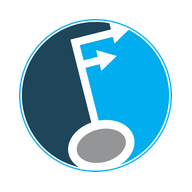
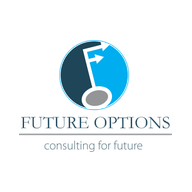
checkpoint before testing_agent_full_stack_o55
Emergent-Commit-Key: 36f8d85649187cc7768c8cea1240ff45d5296a32c699ba65fd40321ee2fd6c4a

diff --git a/frontend/src/components/Layout.js b/frontend/src/components/Layout.js
@@ -12,13 +12,13 @@ const NAV = [
 
 function Brand() {
   return (
-    <Link to="/" className="flex flex-col leading-tight" data-testid="brand-link">
-      <span className="font-display text-xl font-bold text-[var(--green)]">
-        Learning AI <span className="text-[var(--orange)]">Africa</span>
-      </span>
-      <span className="flex items-center gap-1.5 text-[11px] text-[var(--muted)]">
-        <img src="/future-options-mark.png" alt="Future Options logo" width="18" height="18" className="h-[18px] w-[18px]" data-testid="header-fo-logo" />
-        A Future Options learning initiative
+    <Link to="/" className="flex items-center gap-3" data-testid="brand-link">
+      <img src="/future-options-logo.png" alt="Future Options – consulting for future" width="66" height="48" className="h-12 w-auto shrink-0" data-testid="header-fo-logo" />
+      <span className="flex flex-col leading-tight">
+        <span className="font-display text-xl font-bold text-[var(--green)]">
+          Learning AI <span className="text-[var(--orange)]">Africa</span>
+        </span>
+        <span className="text-[11px] text-[var(--muted)]">A Future Options learning initiative</span>
       </span>
     </Link>
   );

diff --git a/frontend/src/App.js b/frontend/src/App.js
@@ -22,7 +22,7 @@ import AdminPassword from "@/pages/AdminPassword";
 import ForgotPassword from "@/pages/ForgotPassword";
 import ResetPassword from "@/pages/ResetPassword";
 import VerifyEmail from "@/pages/VerifyEmail";
-import { saveReturn } from "@/lib/returnTo";
+import { saveReturn, peekReturn, clearReturn } from "@/lib/returnTo";
 
 function Loading() {
   return <div className="p-10 text-center text-[var(--muted)]" data-testid="page-loading">Loading…</div>;
@@ -38,13 +38,14 @@ function Protected({ children, admin = false }) {
   }
   if (!profileComplete(user) && location.pathname !== "/complete-profile") return <Navigate to="/complete-profile" replace />;
   if (admin && user.role !== "admin") return <Navigate to="/dashboard" replace />;
+  if (location.pathname !== "/complete-profile") clearReturn();
   return children;
 }
 
 function PublicOnly({ children }) {
   const { user } = useAuth();
   if (user === null) return <Loading />;
-  return user ? <Navigate to="/dashboard" replace /> : children;
+  return user ? <Navigate to={peekReturn()} replace /> : children;
 }
 
 function AppRouter() {

diff --git a/frontend/src/pages/Register.js b/frontend/src/pages/Register.js
@@ -1,17 +1,15 @@
 import { useState } from "react";
-import { Link, useNavigate } from "react-router-dom";
+import { Link } from "react-router-dom";
 import { api, errorText } from "@/lib/api";
 import { useAuth } from "@/context/AuthContext";
 import ProfileFields from "@/components/ProfileFields";
 import GoogleButton from "@/components/GoogleButton";
-import { takeReturn } from "@/lib/returnTo";
 
 export default function Register() {
   const [form, setForm] = useState({ email: "", password: "", first_name: "", country: "", work_function: "", ai_experience: "" });
   const [error, setError] = useState("");
   const [busy, setBusy] = useState(false);
   const { signIn } = useAuth();
-  const navigate = useNavigate();
   const set = (k, v) => setForm((f) => ({ ...f, [k]: v }));
 
   const submit = async (e) => {
@@ -21,7 +19,6 @@ export default function Register() {
     try {
       const { data } = await api.post("/auth/register", form);
       signIn(data);
-      navigate(takeReturn(), { replace: true });
     } catch (err) {
       setError(errorText(err));
     } finally {

diff --git a/frontend/src/components/PilotFeedback.js b/frontend/src/components/PilotFeedback.js
@@ -5,7 +5,7 @@ import { api, errorText } from "@/lib/api";
 
 const OPTIONS = [[4, "Very useful"], [3, "Useful"], [2, "Somewhat useful"], [1, "Not very useful"]];
 
-export default function PilotFeedback() {
+export default function PilotFeedback({ allDone }) {
   const [rating, setRating] = useState(null);
   const [comment, setComment] = useState("");
   const [saved, setSaved] = useState(false);
@@ -38,7 +38,7 @@ export default function PilotFeedback() {
   return (
     <section className="card p-5 sm:p-6 space-y-4" data-testid="pilot-feedback">
       <h2 className="text-lg font-semibold flex items-center gap-2">
-        <MessageSquareHeart size={20} className="text-[var(--orange)]" /> You have finished the pathway. Tell us what you think
+        <MessageSquareHeart size={20} className="text-[var(--orange)]" /> {allDone ? "You have finished the pathway." : "You have reached the end of the pathway."} Tell us what you think
       </h2>
       <form onSubmit={submit} className="space-y-4">
         <fieldset>

diff --git a/frontend/src/pages/Login.js b/frontend/src/pages/Login.js
@@ -1,9 +1,8 @@
 import { useState } from "react";
-import { Link, useNavigate } from "react-router-dom";
+import { Link } from "react-router-dom";
 import { api, errorText } from "@/lib/api";
 import { useAuth } from "@/context/AuthContext";
 import GoogleButton from "@/components/GoogleButton";
-import { takeReturn } from "@/lib/returnTo";
 
 export default function Login() {
   const [email, setEmail] = useState("");
@@ -11,7 +10,6 @@ export default function Login() {
   const [error, setError] = useState("");
   const [busy, setBusy] = useState(false);
   const { signIn } = useAuth();
-  const navigate = useNavigate();
 
   const submit = async (e) => {
     e.preventDefault();
@@ -20,7 +18,6 @@ export default function Login() {
     try {
       const { data } = await api.post("/auth/login", { email, password });
       signIn(data);
-      navigate(takeReturn(), { replace: true });
     } catch (err) {
       setError(errorText(err));
     } finally {

diff --git a/frontend/src/lib/returnTo.js b/frontend/src/lib/returnTo.js
@@ -4,8 +4,15 @@ export const saveReturn = (path) => {
   if (path && path.startsWith("/") && !path.startsWith("//")) sessionStorage.setItem(KEY, path);
 };
 
-export const takeReturn = (fallback = "/dashboard") => {
+export const peekReturn = (fallback = "/dashboard") => {
   const path = sessionStorage.getItem(KEY);
-  sessionStorage.removeItem(KEY);
   return path && path.startsWith("/") && !path.startsWith("//") ? path : fallback;
+};
+
+export const clearReturn = () => sessionStorage.removeItem(KEY);
+
+export const takeReturn = (fallback = "/dashboard") => {
+  const path = peekReturn(fallback);
+  clearReturn();
+  return path;
 };

diff --git a/frontend/src/pages/Pathway.js b/frontend/src/pages/Pathway.js
@@ -16,7 +16,7 @@ export default function Pathway() {
         <p className="mt-2 text-[var(--muted)]">14 short lessons. Learn at your own pace—you do not need to learn on consecutive days.</p>
       </div>
       <ProgressBar completed={done.size} total={lessons.length} />
-      {finished && <PilotFeedback />}
+      {finished && <PilotFeedback allDone={done.size >= lessons.length} />}
       <ol className="space-y-2" data-testid="pathway-list">
         {lessons.map((l, i) => (
           <li key={l.id}>

diff --git a/backend/tests/test_iter7_feedback_icons.py b/backend/tests/test_iter7_feedback_icons.py
@@ -1,0 +1,108 @@
+# Iteration 7: pilot feedback API, admin feedback, icons/manifest
+import os
+import uuid
+import pytest
+import requests
+from pymongo import MongoClient
+
+BASE_URL = os.environ.get("REACT_APP_BACKEND_URL").rstrip("/")
+ADMIN = {"email": "knandanan@gmail.com", "password": "z-lQI9UdjCj48kvM"}
+
+
+def _env(key):
+    for line in open("/app/backend/.env"):
+        if line.startswith(key + "="):
+            return line.split("=", 1)[1].strip().strip('"')
+
+
+db = MongoClient(_env("MONGO_URL"))[_env("DB_NAME")]
+
+
+@pytest.fixture(scope="module")
+def learner():
+    db.signup_log.delete_many({})
+    db.login_attempts.delete_many({})
+    email = f"test_fb_{uuid.uuid4().hex[:8]}@example.com"
+    r = requests.post(f"{BASE_URL}/api/auth/register", json={
+        "first_name": "TESTFB", "email": email, "password": "Learner123!x",
+        "country": "Kenya", "work_function": "Other", "ai_experience": "Beginner",
+        "consent": True, "privacy_consent": True})
+    assert r.status_code in (200, 201), r.text
+    tok = r.json()["token"]
+    uid = r.json()["user"]["id"]
+    yield {"h": {"Authorization": f"Bearer {tok}"}, "id": uid, "email": email}
+    db.feedback.delete_many({"user_id": uid})
+    db.progress.delete_many({"user_id": uid})
+    db.users.delete_many({"email": email})
+    db.signup_log.delete_many({})
+
+
+@pytest.fixture(scope="module")
+def admin_h():
+    db.login_attempts.delete_many({})
+    r = requests.post(f"{BASE_URL}/api/auth/login", json=ADMIN)
+    assert r.status_code == 200
+    return {"Authorization": f"Bearer {r.json()['token']}"}
+
+
+class TestIcons:
+    @pytest.mark.parametrize("p", ["/favicon.ico", "/favicon-32.png", "/apple-touch-icon.png",
+                                   "/icon-192.png", "/icon-512.png", "/manifest.json"])
+    def test_asset(self, p):
+        r = requests.get(BASE_URL + p)
+        assert r.status_code == 200
+        assert "text/html" not in r.headers.get("content-type", "")
+
+    def test_manifest(self):
+        m = requests.get(BASE_URL + "/manifest.json").json()
+        assert "Learning AI Africa" in m["name"] and m["short_name"] == "Learning AI Africa"
+        assert m["theme_color"] == "#0f4c3a"
+
+    def test_index_head(self):
+        h = requests.get(BASE_URL + "/").text
+        for s in ["favicon.ico", "favicon-32.png", "apple-touch-icon.png", "manifest.json", "#0f4c3a"]:
+            assert s in h
+
+
+class TestFeedback:
+    def test_requires_auth(self):
+        assert requests.get(f"{BASE_URL}/api/feedback").status_code in (401, 403)
+        assert requests.put(f"{BASE_URL}/api/feedback", json={"rating": 3}).status_code in (401, 403)
+
+    def test_initial_null(self, learner):
+        r = requests.get(f"{BASE_URL}/api/feedback", headers=learner["h"])
+        assert r.status_code == 200 and r.json() is None
+
+    @pytest.mark.parametrize("body", [{"rating": 0}, {"rating": 5}, {"rating": 3, "comment": "x" * 1001}, {}])
+    def test_validation(self, learner, body):
+        assert requests.put(f"{BASE_URL}/api/feedback", json=body, headers=learner["h"]).status_code == 422
+
+    def test_save_update_one_per_user(self, learner):
+        r = requests.put(f"{BASE_URL}/api/feedback", json={"rating": 3, "comment": "TEST_ first"}, headers=learner["h"])
+        assert r.status_code == 200
+        g = requests.get(f"{BASE_URL}/api/feedback", headers=learner["h"]).json()
+        assert g == {"rating": 3, "comment": "TEST_ first"}
+        r = requests.put(f"{BASE_URL}/api/feedback", json={"rating": 4, "comment": "  TEST_ second  " + "y" * 900},
+                         headers=learner["h"])
+        assert r.status_code == 200
+        g = requests.get(f"{BASE_URL}/api/feedback", headers=learner["h"]).json()
+        assert g["rating"] == 4 and g["comment"].startswith("TEST_ second")
+        assert db.feedback.count_documents({"user_id": learner["id"]}) == 1
+
+    def test_admin_only(self, learner):
+        assert requests.get(f"{BASE_URL}/api/admin/feedback", headers=learner["h"]).status_code == 403
+        assert requests.get(f"{BASE_URL}/api/admin/feedback").status_code in (401, 403)
+
+    def test_admin_view(self, learner, admin_h):
+        requests.put(f"{BASE_URL}/api/feedback", json={"rating": 2, "comment": "TEST_ admin view"}, headers=learner["h"])
+        r = requests.get(f"{BASE_URL}/api/admin/feedback", headers=admin_h)
+        assert r.status_code == 200
+        d = r.json()
+        assert d["responses"] >= 1
+        assert set(d["counts"]) == {"Very useful", "Useful", "Somewhat useful", "Not very useful"}
+        assert d["counts"]["Somewhat useful"] >= 1
+        c = [x for x in d["comments"] if x["comment"] == "TEST_ admin view"]
+        assert c and c[0]["rating"] == "Somewhat useful" and len(c[0]["date"]) == 10
+        assert set(c[0]) == {"rating", "comment", "date"}
+        s = str(d)
+        assert learner["email"] not in s and "TESTFB" not in s and "user_id" not in s

diff --git a/backend/tests/helpers_iter7_seed.py b/backend/tests/helpers_iter7_seed.py
@@ -1,0 +1,29 @@
+# Iteration 7 helper: seed / cleanup UI test learners  (python helpers_iter7_seed.py seed|complete-last|cleanup)
+import sys
+import requests
+from pymongo import MongoClient
+
+BASE = [l.split("=", 1)[1].strip() for l in open("/app/frontend/.env") if l.startswith("REACT_APP_BACKEND_URL")][0]
+env = dict(l.strip().split("=", 1) for l in open("/app/backend/.env") if "=" in l)
+db = MongoClient(env["MONGO_URL"].strip('"'))[env["DB_NAME"].strip('"')]
+EMAIL, PW = "test_ui7@example.com", "Learner123!x"
+
+cmd = sys.argv[1]
+if cmd == "seed":
+    db.signup_log.delete_many({}); db.login_attempts.delete_many({})
+    r = requests.post(f"{BASE}/api/auth/register", json={"first_name": "UI7", "email": EMAIL, "password": PW,
+                      "country": "Kenya", "work_function": "Other", "ai_experience": "Beginner"})
+    print(r.status_code, r.text[:120])
+    db.signup_log.delete_many({})
+elif cmd == "complete-last":
+    tok = requests.post(f"{BASE}/api/auth/login", json={"email": EMAIL, "password": PW}).json()["token"]
+    last = sorted(db.lessons.find({}, {"id": 1, "order": 1}), key=lambda x: x["order"])[-1]["id"]
+    r = requests.post(f"{BASE}/api/progress/{last}", json={"reflection": "Yes"}, headers={"Authorization": f"Bearer {tok}"})
+    print("completed", last, r.status_code)
+elif cmd == "cleanup":
+    for u in db.users.find({"email": {"$regex": r"^test_ui7.*@example\.com$"}}):
+        uid = str(u["_id"])
+        for c in ("feedback", "progress", "favourites", "email_verify_tokens"):
+            db[c].delete_many({"user_id": uid})
+    print(db.users.delete_many({"email": {"$regex": r"^test_ui7.*@example\.com$"}}).deleted_count)
+    db.signup_log.delete_many({}); db.login_attempts.delete_many({})
